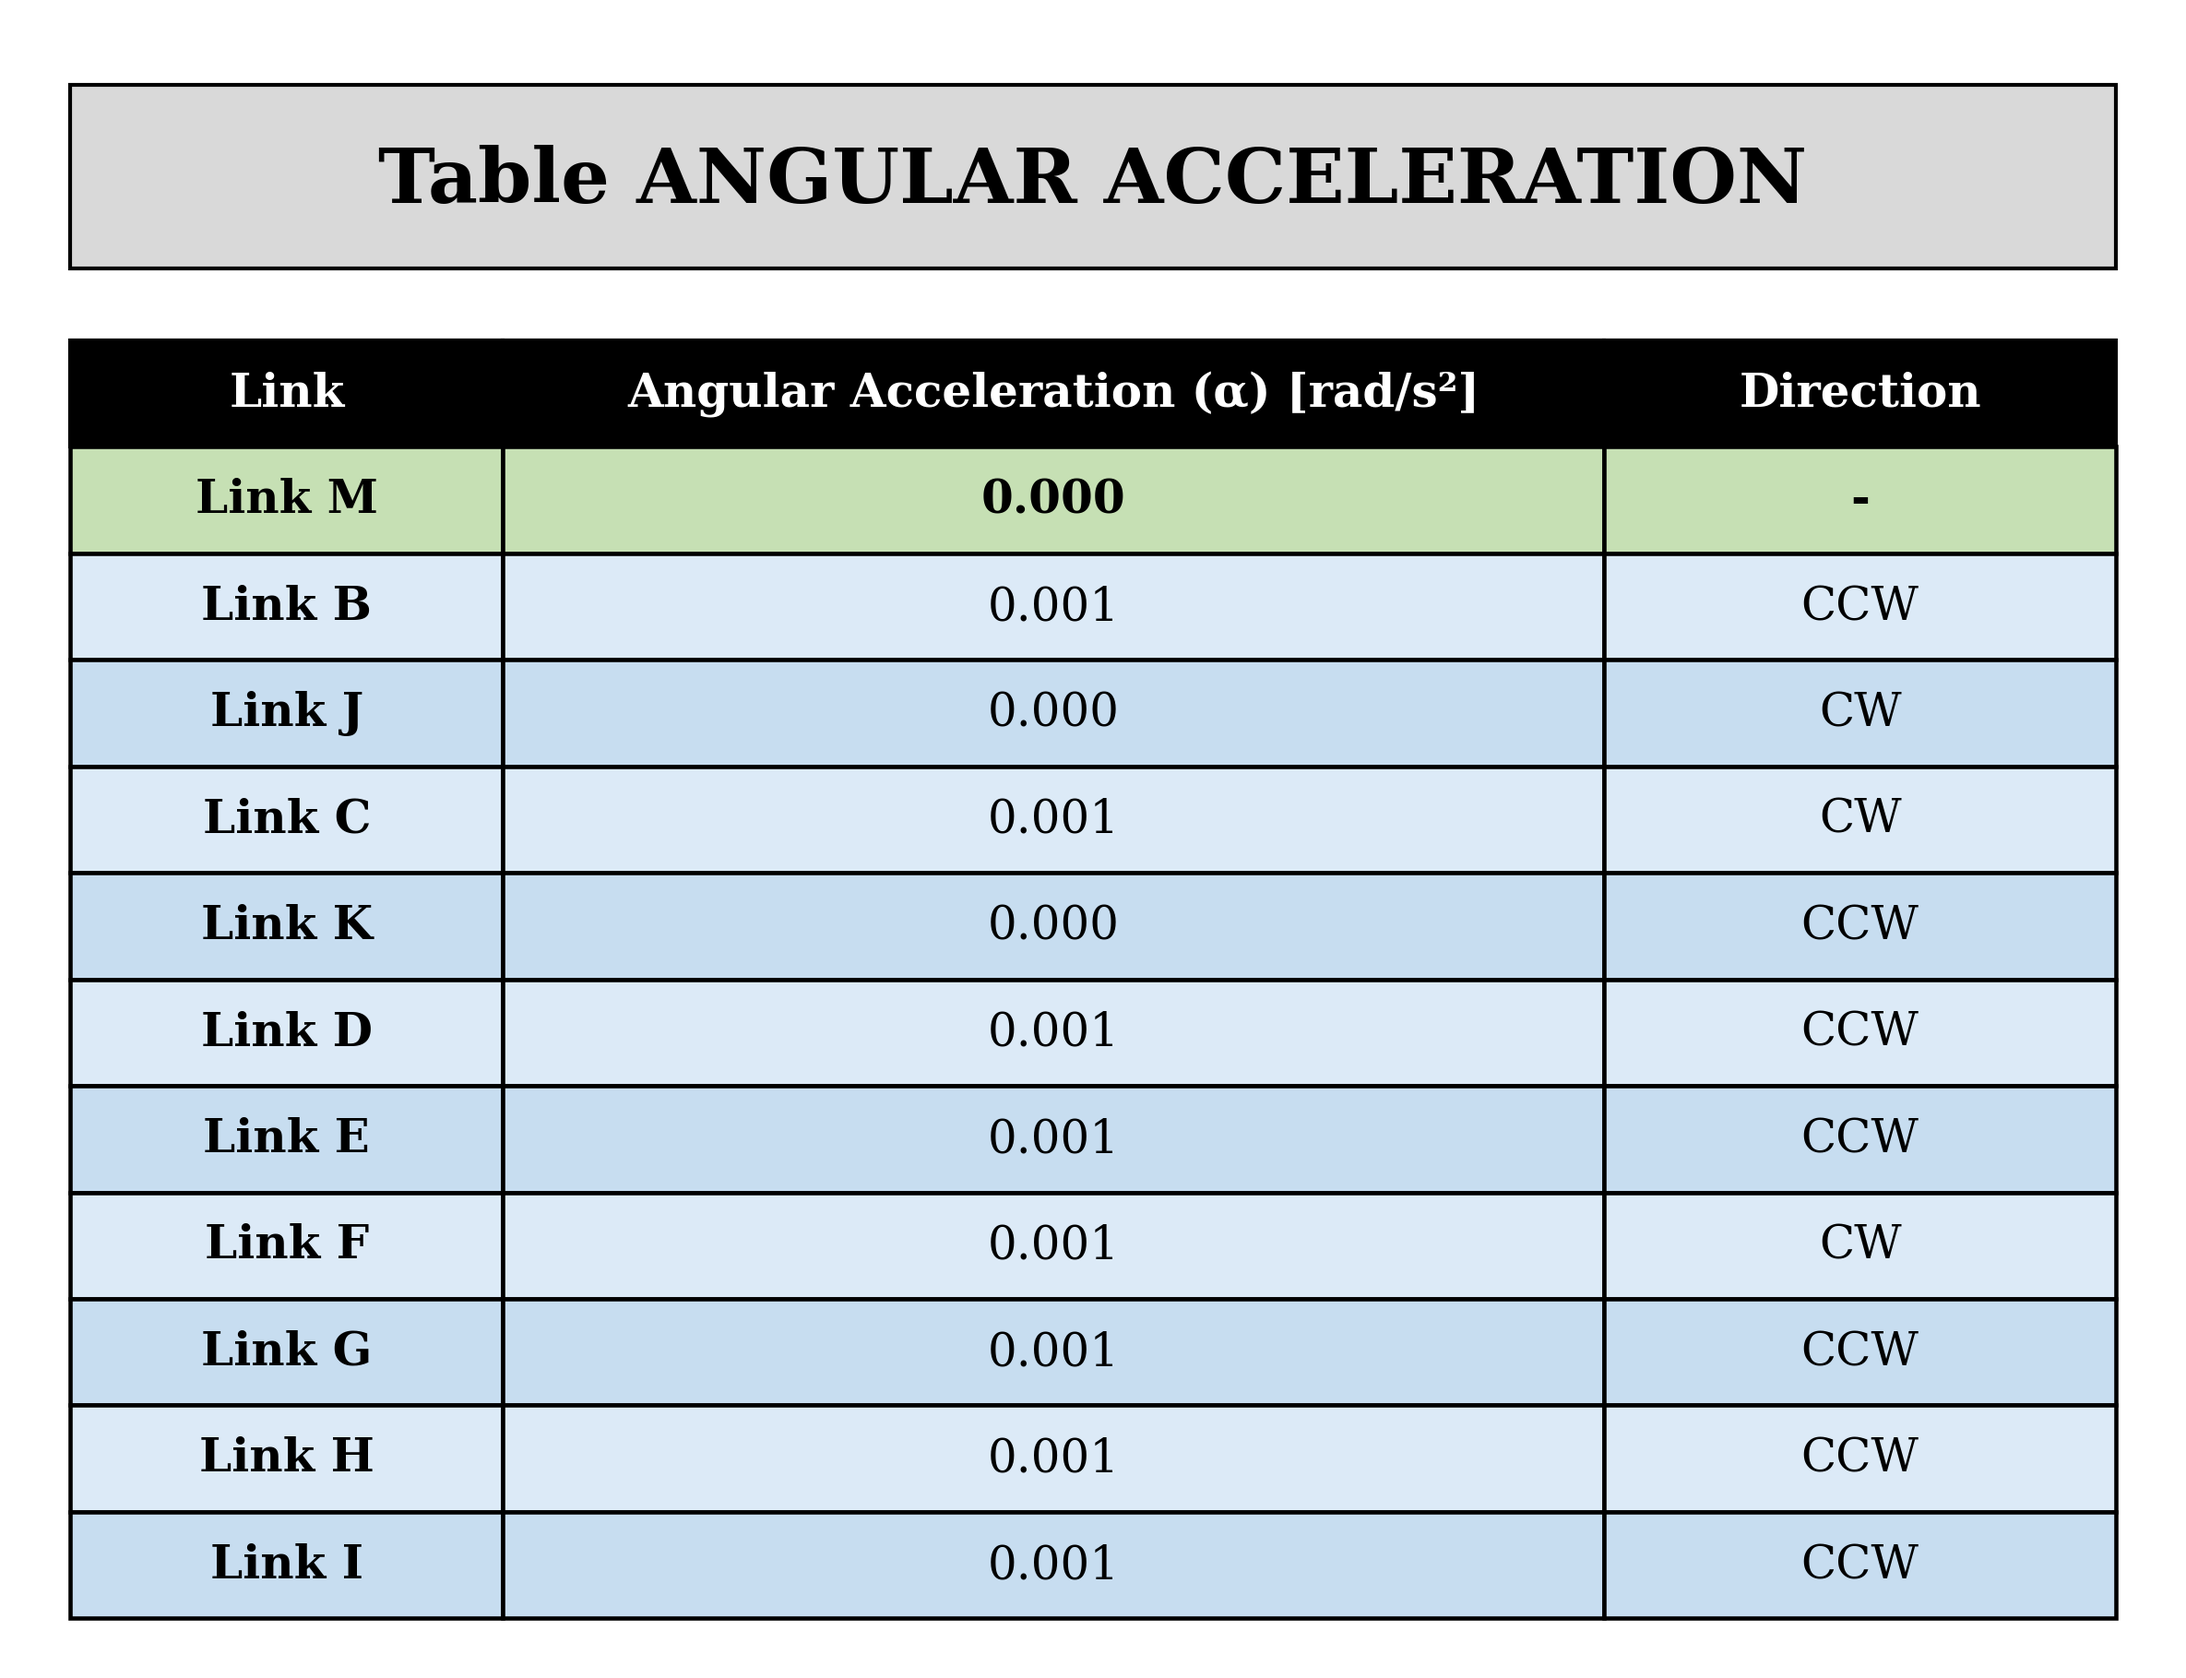
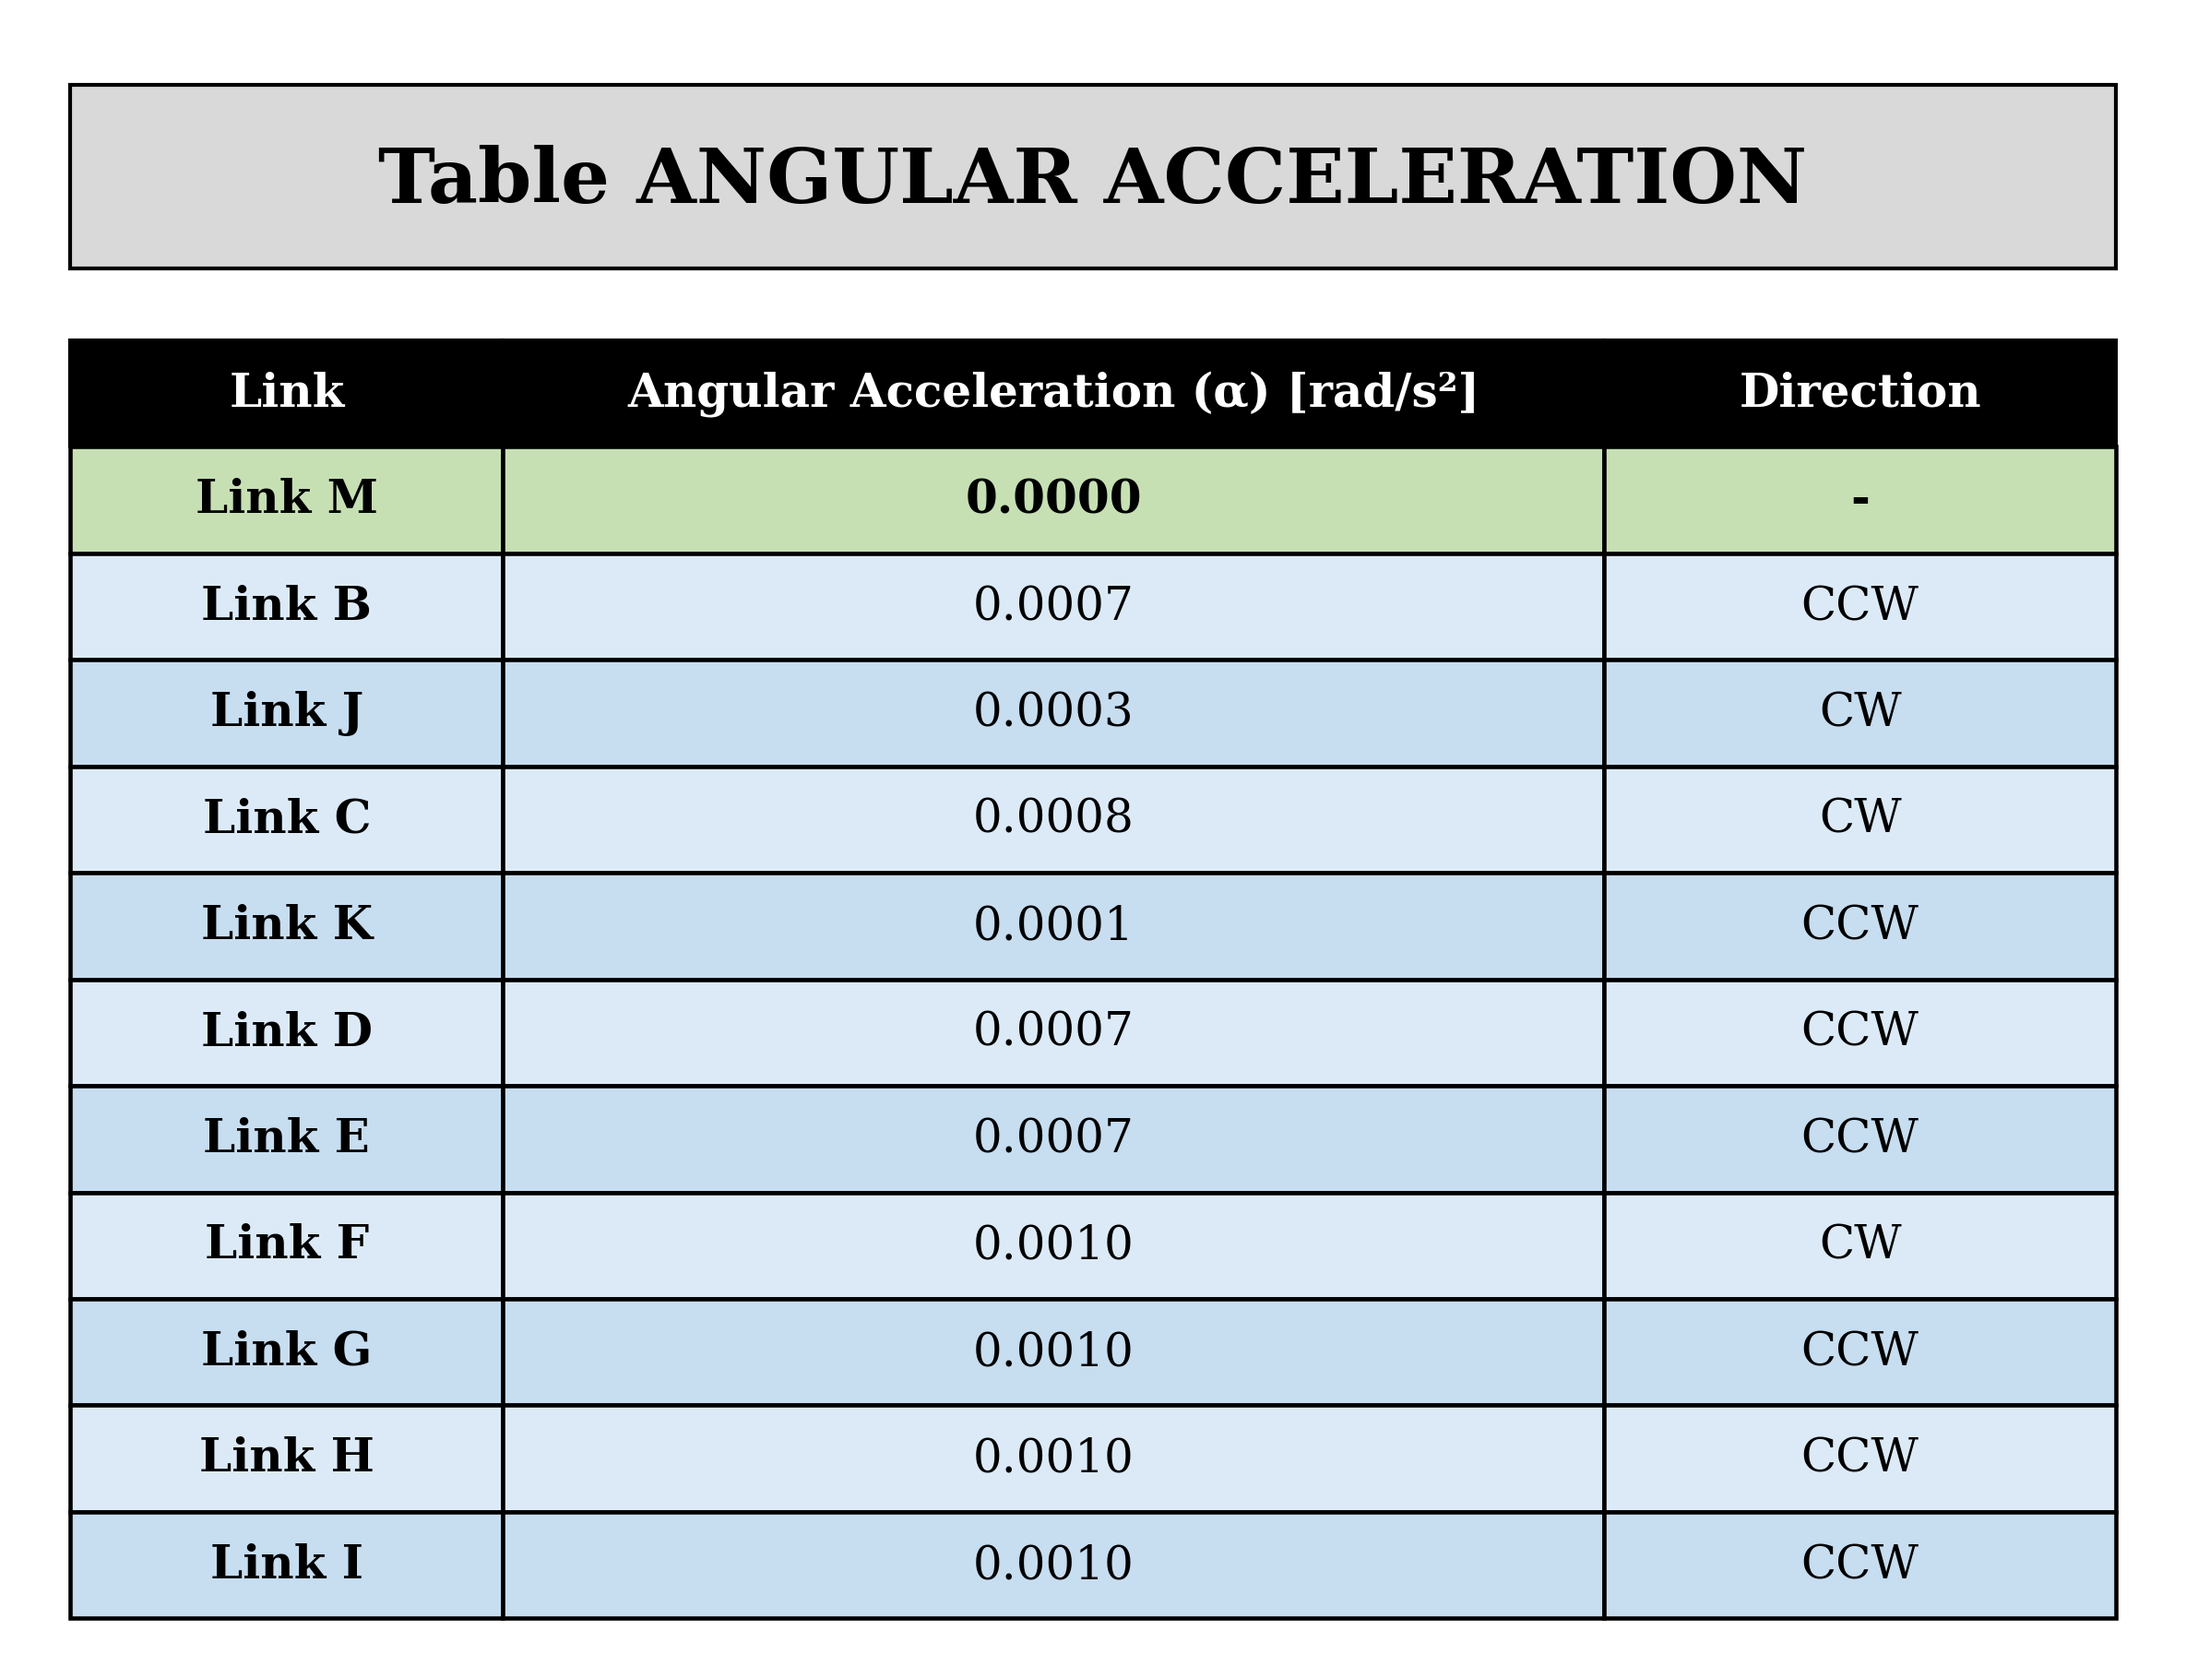
.

diff --git a/lib/_Table.py b/lib/_Table.py
@@ -348,7 +348,7 @@ def create_angular_summary_tables(step : int, omega_M : np.ndarray, omega_B : np
     figure_number = append_angular_velocity_table(table_path, table_names, figure_number, step, omega_M, omega_B, omega_J, omega_C, Omega_K, Omega_D, Omega_E, Omega_F, Omega_G, Omega_H, Omega_I, decimals)
     
     # ? Angular Acceleration Summary Table ?
-    figure_number = append_angular_acceleration_table(table_path, table_names, figure_number, step, alpha_M, alpha_B, alpha_J, alpha_C, Alpha_K, Alpha_D, Alpha_E, Alpha_F, Alpha_G, Alpha_H, Alpha_I, decimals)
+    figure_number = append_angular_acceleration_table(table_path, table_names, figure_number, step, alpha_M, alpha_B, alpha_J, alpha_C, Alpha_K, Alpha_D, Alpha_E, Alpha_F, Alpha_G, Alpha_H, Alpha_I, 4)
     
     
     return table_path, table_names

diff --git a/Main.py b/Main.py
@@ -48,6 +48,10 @@ LINK_L = 7.80 * SCALE_FACTOR
 LINK_M = 15.00 * SCALE_FACTOR
 LINK_N = np.sqrt(LINK_A ** 2 + LINK_L ** 2)
 
+# Ground Points
+O2 = np.array([0.0, 0.0])    
+O4 = np.array([LINK_A, LINK_L]) 
+
 # Gear Ratio
 """
 ! Compound Gear Ratio Calculation:
@@ -90,10 +94,6 @@ THETA_M_TEST = np.deg2rad(CRANK_ANGLE)
 NUM_STEPS = 361
 CRANK_ANGLE_ARRAY = np.linspace(CRANK_ANGLE, CRANK_ANGLE + 360, NUM_STEPS)  # ↺ , from 0° to 360°
 THETA_M_ARRAY = np.deg2rad(CRANK_ANGLE_ARRAY)
-
-# Ground Points
-O2 = np.array([0.0, 0.0])    
-O4 = np.array([LINK_A, LINK_L]) 
 
 # Figures Aesthetics Tweaks
 CRANK_ANGLE_PLOT = np.linspace(0, CRANK_ANGLE + 360, NUM_STEPS)  
